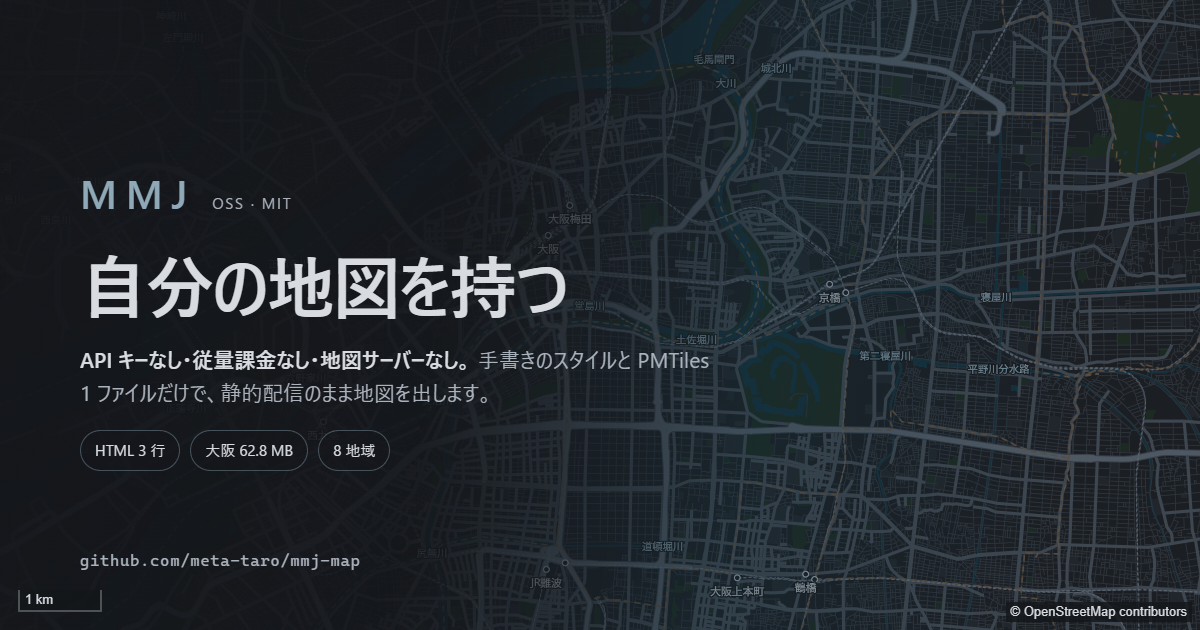
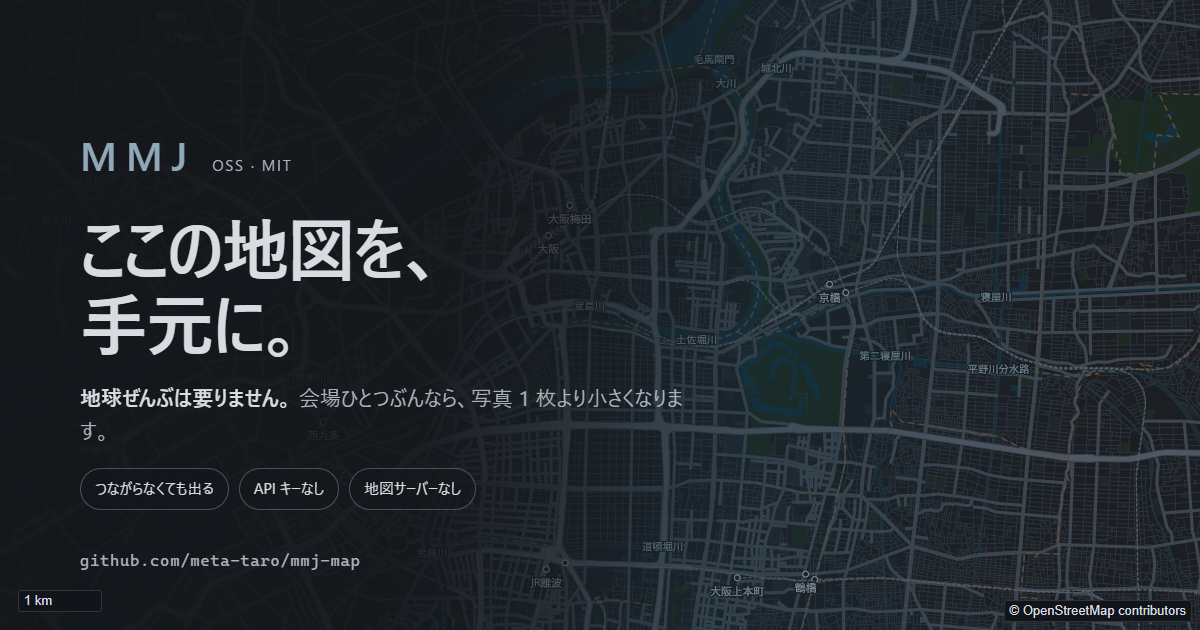
feat(demo): LP を「ここの地図を、手元に」へ張り替える
**掲げる前に本当にする、の順番を守った結果の張り替え。**
オフライン化が 3 つとも終わり、対照付きで実証できたので掲げられるようになった。

見出し: 「自分の地図を、自分で持つ。」→ **「ここの地図を、手元に。」**

前の見出しは**費用と独立の話**だった。今回いちばん大きく動いたのは
**配る単位**で、「日本の地図」ではなく「ここの地図」を配る、という点。

## 「配る単位」の節を足した

数字はすべて実測:

| 範囲 | 大きさ | 切り出し |
|---|---|---|
| 舞浜一帯（会場ひとつ） | **1.9 MB** | 31 リクエスト・9.5 秒 |
| ハノイ中心部 | 10.9 MB | 45 リクエスト・12.5 秒 |
| 大阪（広域＋市街） | 62.8 MB | — |
| 日本全土 | 2.6 GB | — |

**「世界中のタイルは持てない」は制約だったが、範囲を絞る用途では前提になる。**

## 言い過ぎないようにした 3 か所

1. **「つながらなくても出る」は会場の頁だけ**。LP 全体がオフラインで動くわけではない
   （小さいタイルだから先に掴める）。**そう読める書き方をしていない**
2. **「これは会場ほどの範囲だからできること」と明記**。日本全土では同じことはできない
3. **GPS の但し書き**。通信が無いと初回の測位に数十秒かかる。都合の悪い数字も出す

## OG カードは舞浜をやめて大阪にした

一度は舞浜（1.9 MB の実例）にした。**絵と数字を一致させるため**だったが、
**あの範囲は園が主役で、どう切っても特定企業の施設名が絵の主役になる。**
地図データとしては正しくても、**宣伝物だと提携しているように読まれかねない。**

引いて町側を入れようとすると、今度は**切り出した範囲の外が黒帯で出て壊れて見えた**。

示したいのは「**この広さなら小さい**」であって、どこかではない。
数字は文章側で言えば足りるので、絵は中立な市街（大阪）にした。

## 撮ったら、Service Worker の不具合が出た

**版下を直して撮り直したのに、絵が 1 ピクセルも変わらなかった。**
配信は新しいものを返していて、**古い頁を返していたのは今日入れた SW** だった。

HTML までキャッシュ優先にしていたため、**直しても利用者に届かない**。
「中身を変えたら版を上げること」と書いていたが、**手で上げる運用は漏れる**——
**自分で踏んだ。**

頁（HTML）は**通信を先に見る**形へ直した。通信が無ければ掴んだものを返すので、
**オフラインで出ることは変わらない。**資産（描く道具・字・タイル）は掴んだものが先のまま。

## 確認

LP・「配る単位」の節・OG カードを撮って目視。通信失敗 0 件・console 0 件。
ゲート全通過。

diff --git a/apps/demo/index.html b/apps/demo/index.html
@@ -3,8 +3,8 @@
 <head>
 <meta charset="utf-8">
 <meta name="viewport" content="width=device-width, initial-scale=1">
-<title>MMJ — 自分の地図を持つ</title>
-<meta name="description" content="API キーなし・従量課金なし・地図サーバーなし。手書きのスタイルと PMTiles だけで、自分の地図を静的配信します。">
+<title>MMJ — ここの地図を、手元に</title>
+<meta name="description" content="地球ぜんぶは要りません。舞浜一帯なら 1.9 MB——写真 1 枚より小さい。手元にあるので、つながらなくても出ます。API キーも従量課金も地図サーバーもなし。">
 <!-- **SNS に貼られたときに出る面。**URL は絶対で書く（相対だと貼り先で解けない）。
      絵は `og.html` を `pnpm shot -- --size=1200x630` で撮ったもので、
      **本物の地図が写っている**。撮り直しは版下を直して撮るだけ。 -->
@@ -12,12 +12,12 @@
 <meta property="og:site_name" content="MMJ">
 <meta property="og:locale" content="ja_JP">
 <meta property="og:url" content="https://meta-taro.github.io/mmj-map/">
-<meta property="og:title" content="MMJ — 自分の地図を持つ">
-<meta property="og:description" content="API キーなし・従量課金なし・地図サーバーなし。手書きのスタイルと PMTiles だけで、自分の地図を静的配信します。">
+<meta property="og:title" content="MMJ — ここの地図を、手元に">
+<meta property="og:description" content="地球ぜんぶは要りません。舞浜一帯なら 1.9 MB——写真 1 枚より小さい。手元にあるので、つながらなくても出ます。API キーも従量課金も地図サーバーもなし。">
 <meta property="og:image" content="https://meta-taro.github.io/mmj-map/og.png">
 <meta property="og:image:width" content="1200">
 <meta property="og:image:height" content="630">
-<meta property="og:image:alt" content="MMJ「自分の地図を持つ」。大阪の暗色の地図に、API キーなし・従量課金なし・地図サーバーなしと書かれたカード。右下に © OpenStreetMap contributors。">
+<meta property="og:image:alt" content="MMJ「ここの地図を、手元に。」。大阪市街の暗色の地図に、つながらなくても出る・API キーなし・地図サーバーなし と書かれたカード。右下に © OpenStreetMap contributors。">
 <meta name="twitter:card" content="summary_large_image">
 <meta name="twitter:image" content="https://meta-taro.github.io/mmj-map/og.png">
 <link rel="icon" href="./favicon.svg">
@@ -47,10 +47,12 @@
 
   <section class="lp-hero">
     <p class="lp-eyebrow">OSS · MIT · OpenStreetMap (ODbL)</p>
-    <h1 class="lp-title">自分の地図を、<br>自分で持つ。</h1>
+    <h1 class="lp-title">ここの地図を、<br>手元に。</h1>
     <p class="lp-lead">
-      <strong>API キーなし・従量課金なし・地図サーバーなし。</strong>
-      手書きのスタイルと 1 つの PMTiles ファイルだけで、静的配信のまま地図が出ます。
+      <strong>地球ぜんぶは要りません。</strong>必要な範囲だけ切り出せば、
+      <strong>写真 1 枚より小さくなります</strong>——舞浜一帯で 1.9 MB。
+      手元にあるので、<a href="./venue.html">つながらなくても出ます</a>。
+      API キーも、従量課金も、地図サーバーもありません。
     </p>
     <p class="lp-actions">
       <a class="lp-btn lp-btn-primary" href="#how">使い方を見る</a>
@@ -84,8 +86,8 @@
   <dl class="lp-stats">
     <div><dt>API キー</dt><dd><b>0</b></dd></div>
     <div><dt>地図サーバー</dt><dd><b>0</b> 台</dd></div>
-    <div><dt>配るファイル</dt><dd><b>1</b> つ</dd></div>
-    <div><dt>大阪の切り出し</dt><dd><b>62.8</b> MB</dd></div>
+    <div><dt>舞浜一帯の地図</dt><dd><b>1.9</b> MB</dd></div>
+    <div><dt>会場ひとそろい</dt><dd><b>3.6</b> MB</dd></div>
     <div><dt>手書きスタイル</dt><dd><b>6</b> 枚</dd></div>
   </dl>
 
@@ -105,6 +107,46 @@
       <li><strong>スタイル</strong>は手書きです。生成物ではなく作品として扱います</li>
       <li><strong>サーバーを立てません。</strong>静的配信と HTTP Range だけでデプロイが完結します</li>
     </ul>
+  </section>
+
+  <section class="lp-section" id="unit">
+    <h2>配る単位</h2>
+    <p class="lp-section-lead">
+      地図というと「日本の地図」「世界の地図」を思い浮かべますが、
+      <strong>ほとんどの用途で必要なのは「ここ」だけ</strong>です。
+      そして範囲を絞ると、大きさが桁で変わります。
+    </p>
+
+    <!-- **すべて実測。**丸めた見栄えの数を置かない -->
+    <table class="lp-table">
+      <thead><tr><th>範囲</th><th>大きさ</th><th>切り出し</th></tr></thead>
+      <tbody>
+        <tr><td>舞浜一帯（会場ひとつ）</td><td><b>1.9 MB</b></td><td>31 リクエスト・9.5 秒</td></tr>
+        <tr><td>ハノイ中心部</td><td>10.9 MB</td><td>45 リクエスト・12.5 秒</td></tr>
+        <tr><td>大阪（広域 ＋ 市街）</td><td>62.8 MB</td><td>—</td></tr>
+        <tr><td>日本全土</td><td>2.6 GB</td><td>—</td></tr>
+      </tbody>
+    </table>
+
+    <p class="lp-pull">惑星は端末に置けません。会場は置けます。</p>
+
+    <p>
+      「世界中のタイルは持てない」は MMJ の制約でしたが、<strong>範囲を絞る用途では前提</strong>になります。
+      会場・駅・学校がそれぞれ自分の範囲だけを持てば、<strong>アクセスが 1 か所に集まりません</strong>。
+      混雑した場所で地図が出ないのは、たいてい全員が同じ配信元を見ているからです。
+    </p>
+
+    <p>
+      <a href="./venue.html">会場の地図</a>は、<strong>通信を切っても出ます</strong>。
+      一度開けば、地図・ラベルの字・描く道具（合計 3.6 MB）が端末に残るためです。
+      <strong>これは会場ほどの範囲だからできること</strong>で、日本全土では同じことはできません。
+    </p>
+
+    <p class="lp-note">
+      現在地は衛星から測るので、<strong>通信が無くても出ます</strong>
+      （<code>locate</code> を付けたときだけ。付けない限り位置情報は要求しません）。
+      ただし通信が無いと<strong>初回の測位に数十秒かかる</strong>ことがあります。
+    </p>
   </section>
 
   <section class="lp-section" id="how">

diff --git a/apps/demo/og.html b/apps/demo/og.html
@@ -154,6 +154,18 @@
 <body>
 
 <div class="card">
+  <!-- **範囲は舞浜のままで、駅と町側を写す。**
+       園内へ寄せると、広報用の絵の主役が特定企業の施設名になり、
+       **提携しているように読まれかねない**（地図データとしては正しくても、
+       宣伝物としては別の話）。示したいのは「この広さで 1.9 MB」であって、
+       どの施設かではない。 -->
+  <!-- **舞浜ではなく大阪を写す。**一度は舞浜（1.9 MB の実例）にしたが、
+       **あの範囲は園が主役で、どう切っても特定企業の施設名が絵の主役になった**
+       （地図データとしては正しくても、**宣伝物だと提携しているように読まれかねない**）。
+       引いて町側を入れようとすると、今度は切り出した範囲の外が黒帯で出る。
+
+       示したいのは「**この広さなら小さい**」であって、どこかではない。
+       数字は文章側で言えば足りるので、絵は中立な市街にする。 -->
   <mmj-map id="map" center="135.5023,34.6937" zoom="12.4"></mmj-map>
   <div class="veil"></div>
 
@@ -162,15 +174,15 @@
       <span class="wordmark">MMJ</span>
       <span class="eyebrow">OSS · MIT</span>
     </div>
-    <h1>自分の地図を持つ</h1>
+    <h1>ここの地図を、<br>手元に。</h1>
     <p class="lead">
-      <b>API キーなし・従量課金なし・地図サーバーなし。</b>
-      手書きのスタイルと PMTiles 1 ファイルだけで、静的配信のまま地図を出します。
+      <b>地球ぜんぶは要りません。</b>
+      会場ひとつぶんなら、写真 1 枚より小さくなります。
     </p>
     <div class="chips">
-      <span class="chip">HTML 3 行</span>
-      <span class="chip">大阪 62.8 MB</span>
-      <span class="chip">8 地域</span>
+      <span class="chip">つながらなくても出る</span>
+      <span class="chip">API キーなし</span>
+      <span class="chip">地図サーバーなし</span>
     </div>
   </div>
 
@@ -195,6 +207,8 @@
     notice.style.cssText = 'position:absolute;inset:auto 80px 120px;color:#d8dce1';
     document.querySelector('.card').append(notice);
   } else {
+    // **カードに書いたことと、写っている地図を食い違わせない。**
+    // チップに大きさを書かないので、ここは配信の既定（大阪）でよい。
     map.setAttribute('tiles', cfg.tilesUrl);
     map.setAttribute('style-url', cfg.styleUrl);
     await import('./elements/index.js');

diff --git a/apps/demo/sw.js b/apps/demo/sw.js
@@ -133,7 +133,33 @@ self.addEventListener("fetch", (event) => {
         return fetch(request);
       }
 
-      // Range 無し。掴んであればそれを返す（**開くたびに取りに行かない**）
+      // **頁（HTML）は通信を先に見る。**
+      //
+      // **掴んだものを先に返すと、直しても利用者に届かない。**
+      // 版を手で上げる運用にしていたが、**実際に自分で踏んだ**——
+      // 版下を直して撮り直したのに、絵が 1 ピクセルも変わらなかった（2026-09-25）。
+      // 配信は新しいものを返していて、古い頁を返していたのはここだった。
+      // **手で上げる運用は漏れる。**機械が毎回見に行く形にする。
+      //
+      // 通信が無ければ掴んだものを返す。**オフラインで出ることは変わらない。**
+      const isDocument = request.mode === "navigate" || request.destination === "document";
+      if (isDocument) {
+        try {
+          const fresh = await fetch(request);
+          if (fresh.ok && fresh.status === 200) {
+            const cache = await caches.open(CACHE);
+            await cache.put(request, fresh.clone());
+          }
+          return fresh;
+        } catch {
+          const cached = await caches.match(request, { cacheName: CACHE });
+          if (cached !== undefined) return cached;
+          throw new Error(`通信も掴んだものもありません: ${request.url}`);
+        }
+      }
+
+      // 資産（描く道具・字・スタイル・タイル）は掴んだものを先に返す。
+      // **開くたびに 1.15 MB 取りに行かない。**中身が変わったら版を上げる
       const cached = await caches.match(request, { cacheName: CACHE });
       if (cached !== undefined) return cached;
 

diff --git a/apps/demo/lp.css b/apps/demo/lp.css
@@ -361,6 +361,40 @@
 }
 
 /* 言い切りの 1 行。**地の文と同じ大きさだと、ただの 1 文として流れる** */
+/* 「配る単位」の表。**数字を並べて桁の違いを見せる**のが役目なので、
+   数字は等幅で揃える（比例フォントだと桁が揃わず、差が読めない）。
+   色はすべて既存のトークンから借りている。**新しい色を作っていない**（baseline §11） */
+.lp-table {
+  width: 100%;
+  margin: 2rem 0;
+  border-collapse: collapse;
+  font-size: 0.95rem;
+}
+
+.lp-table :is(th, td) {
+  padding: 0.7rem 0.9rem;
+  border-bottom: 1px solid var(--line);
+  text-align: left;
+}
+
+.lp-table th {
+  color: var(--muted);
+  font-weight: 600;
+  font-size: 0.85rem;
+  letter-spacing: 0.04em;
+}
+
+/* 大きさと切り出しの列。**桁を揃えて見せる** */
+.lp-table :is(th, td):not(:first-child) {
+  font-variant-numeric: tabular-nums;
+  white-space: nowrap;
+}
+
+.lp-table td b {
+  color: var(--accent);
+  font-size: 1.05rem;
+}
+
 .lp-pull {
   margin: 1.5rem 0 1.25rem;
   padding-left: 1rem;
